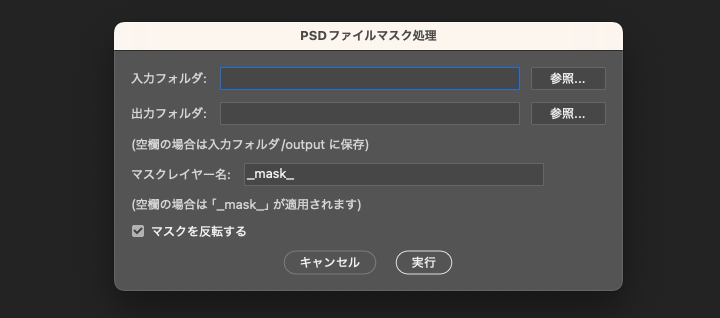
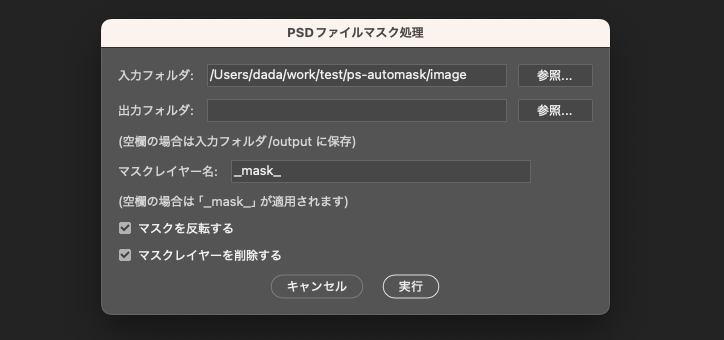
update documents

Changed region(s): [[0.1222, 0.0283, 0.8861, 0.934]]

diff --git a/README.md b/README.md
@@ -139,7 +139,7 @@ python install.py
 4. ダイアログが開くので、`入力フォルダ` に画像のあるフォルダを入力し、`実行` をクリック
 
 <figure>
-<img src="img/use_mask_script_2.png">
+<img src="img/use_mask_script_2.png?2">
 </figure>
 
 5. マスクを適用した画像が出力される
@@ -154,12 +154,18 @@ python install.py
   - 対象となるマスクレイヤーの名前。空欄の時は `_mask_` が適用される
 - `マスクを反転する`
   - チェックしている時は選択範囲を反転してマスクする
+- `マスクレイヤーを削除する`
+  - ファイル保存時にマスクレイヤーを削除する
 
 
 
 ---
 
 ## :blossom: 更新履歴
+
+**2025.04.09**
+
+- PS Script: マスクレイヤーを削除するオプションを追加
 
 **2025.04.07**
 

diff --git a/README_en.md b/README_en.md
@@ -154,12 +154,17 @@ Save the script file <a href="./Photoshop script/d2_automask.jsx" target="_blank
   - Name of the target mask layer. When blank, `_mask_` is applied
 - `マスクを反転する`
   - When checked, inverts the selection and masks
-
+- `マスクレイヤーを削除する`
+  - Delete mask layers when saving files
 
 
 ---
 
 ## :blossom: Update History
+
+**2025.04.09**
+
+- PS Script: Added option to delete mask layers
 
 **2025.04.07**
 

diff --git a/README_zh.md b/README_zh.md
@@ -154,12 +154,18 @@ python install.py
   - 目標蒙版圖層的名稱。為空時，應用`_mask_`
 - `マスクを反転する`
   - 勾選時，反轉選擇並進行蒙版
+- `マスクレイヤーを削除する`
+  - 儲存檔案時刪除遮罩圖層
 
 
 
 ---
 
 ## :blossom: 更新歷史
+
+**2025.04.09**
+
+- PS 腳本：新增刪除遮罩圖層的選項
 
 **2025.04.07**
 
